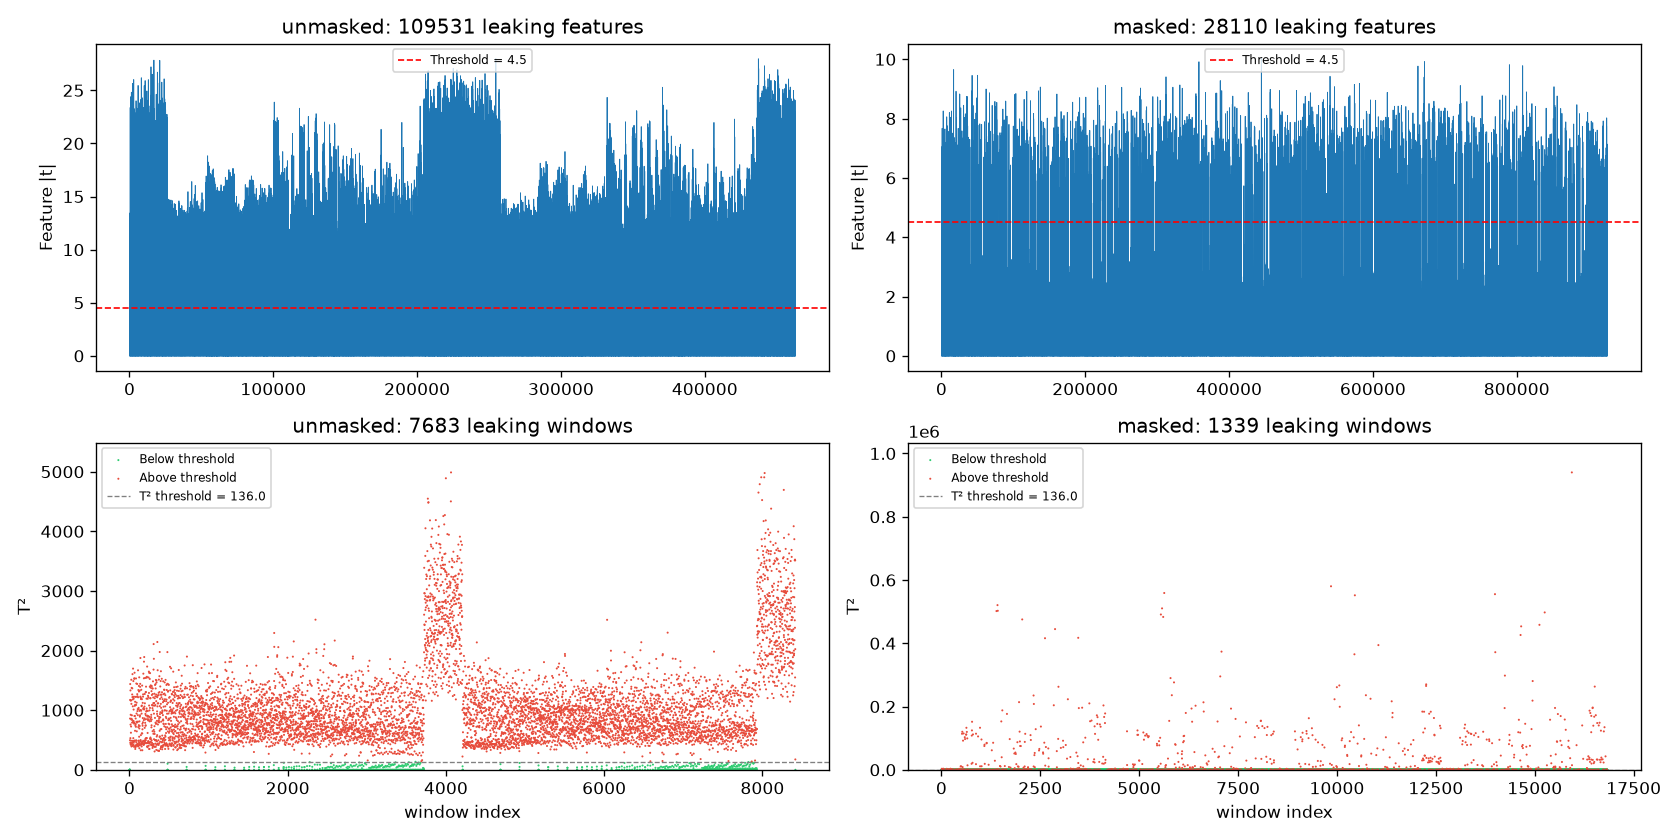
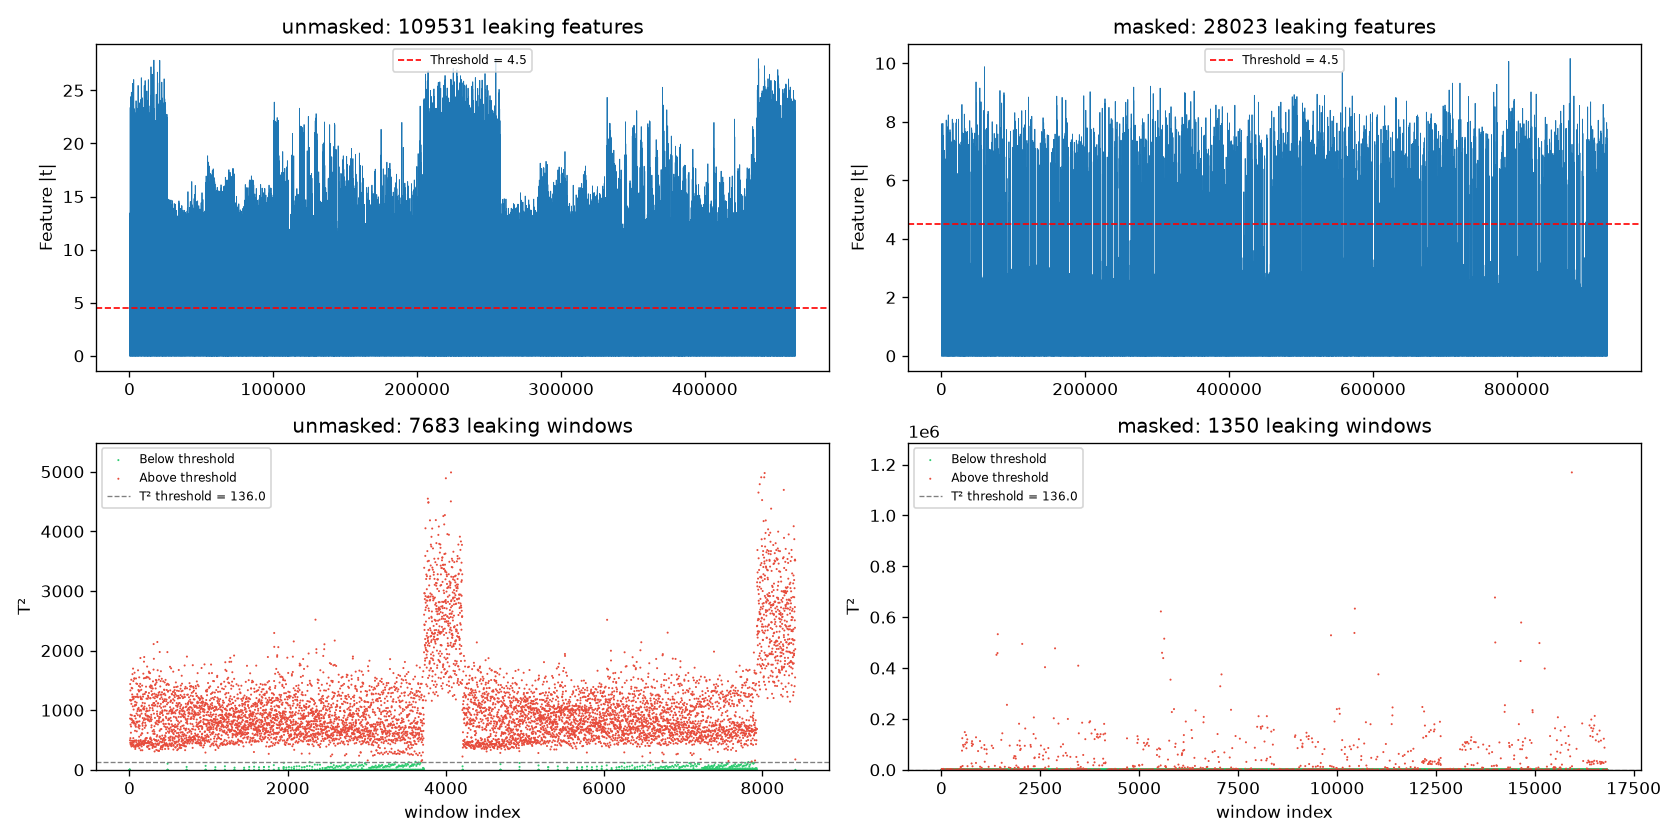
chore: resolve merge conflicts - keep flexible plot_welch_trace API with title_prefix, roi_length, show_raw_traceparams

diff --git a/trace_plot.py b/trace_plot.py
@@ -1,23 +1,23 @@
 #!/usr/bin/env python3
 """trace_plot.py -- Plot Welch Univariate TVLA trace data from ELMO.
 
-Called by tvla_analysis.py via:   trace_plot.plot_welch_trace(...)
+Called by tvla_analysis.py via:   trace_plot.plot_unmasked_welch_trace(...)
+                                  trace_plot.plot_welch_trace(...)
 
-Produces:  unmasked_trace.png and/or masked_trace.png (Welch t-stat line graphs
-           with ±4.5 threshold markers + sample power trace overlay)
+Produces:  unmasked_trace.png, masked_trace.png (Welch t-stat line graph +
+           sample power trace overlay).
 """
 
 
-def plot_welch_trace(label, t_stats, raw_trace, output_path=None, threshold=4.5):
-    """Save the Welch t-statistic as a line-graph PNG with a raw trace overlay.
+def plot_unmasked_welch_trace(t_stats, raw_trace, output_path, threshold=4.5):
+    """Save the Welch t-statistic as a line-graph PNG with a sample power trace overlay.
 
     Parameters
     ----------
-    label : str          - e.g. ``"Unmasked"`` or ``"Masked"`` (used in title)
-    t_stats : np.ndarray - per-point Welch t-statistic, shape (n_points,)
-    raw_trace : np.ndarray - one raw power trace from the ELMO output, shape (n_points,)
-    output_path : str or None - PNG output. If None, defaults to ``{label.lower()}_trace.png``
-    threshold : float   - |t| threshold (default 4.5)
+    t_stats : np.ndarray          - per-point Welch t-statistic, shape (n_points,)
+    raw_trace : np.ndarray        - one raw power trace from the ELMO output, shape (n_points,)
+    output_path : str             - PNG output file path
+    threshold : float             - |t| threshold (default 4.5)
     """
     import numpy as np
 
@@ -29,9 +29,6 @@ def plot_welch_trace(label, t_stats, raw_trace, output_path=None, threshold=4.5)
         print("matplotlib not available; skipping trace plot.")
         return
 
-    if output_path is None:
-        output_path = "{}_trace.png".format(label.lower())
-
     n_points = len(t_stats)
     positions = np.arange(n_points)
 
@@ -39,7 +36,7 @@ def plot_welch_trace(label, t_stats, raw_trace, output_path=None, threshold=4.5)
         2, 1, figsize=(14, 5), sharex=True,
         gridspec_kw={"height_ratios": [3, 1]}
     )
-    fig.suptitle("Welch {} Univariate TVLA".format(label), fontsize=13, fontweight="bold")
+    fig.suptitle("Welch Unmasked Univariate TVLA", fontsize=13, fontweight="bold")
 
     # --- Panel A: Welch t-statistic line graph ---
     ax_t.plot(positions, t_stats, color="#1f77b4", lw=0.8, zorder=5, label="Welch t")
@@ -65,4 +62,99 @@ def plot_welch_trace(label, t_stats, raw_trace, output_path=None, threshold=4.5)
     fig.tight_layout(rect=[0, 0.02, 1, 0.94])
     fig.savefig(output_path, dpi=200, bbox_inches="tight")
     plt.close(fig)
-    print("Saved trace plot to {}".format(output_path))
+    print(f"Saved trace plot to {output_path}")
+
+
+def plot_welch_trace(t_stats, raw_trace, output_path, threshold=4.5,
+                     title_prefix="Welch Masked Univariate TVLA",
+                     y_label="Welch t-statistic",
+                     show_raw_trace=True,
+                     roi_length=None,
+                     normalize_trace=False):
+    """Save the Welch t-statistic as a line-graph PNG with a sample power trace overlay.
+
+    Parameters
+    ----------
+    t_stats : np.ndarray          - per-point or per-feature Welch t-statistic, shape (n,)
+    raw_trace : np.ndarray        - one raw power trace from the ELMO output, shape (n,)
+    output_path : str             - PNG output file path
+    threshold : float             - |t| threshold (default 4.5)
+    title_prefix : str            - prefix for the plot title
+    y_label : str                 - label for the y-axis of the t-statistic panel
+    show_raw_trace : bool         - whether to show Panel B (raw power trace).
+                                    Set False for second-order plots (where raw
+                                    trace overlay doesn't apply).
+    roi_length : int or None      - number of leading points to display.  If
+                                    *None* (default) the full trace is shown.
+                                    Setting to ~5000 zooms into the region of
+                                    interest for readability.
+    normalize_trace : bool        - mean-centre and divide by std-dev so the
+                                    power y-axis stays in a readable range
+                                    (e.g. ±5 for the masked reference).
+    """
+    import numpy as np
+
+    try:
+        import matplotlib
+        matplotlib.use("Agg")
+        import matplotlib.pyplot as plt
+    except ImportError:
+        print("matplotlib not available; skipping trace plot.")
+        return
+
+    n_points = len(t_stats)
+
+    # ROI slice: limit x-axis to the first *roi_length* points so that the
+    # readable region is comparable to the masked reference plot.
+    end_idx = min(n_points, roi_length) if roi_length is not None else n_points
+
+    pos_display = np.arange(end_idx, dtype=np.int64)
+    t_display = t_stats[:end_idx]
+    if raw_trace is not None:
+        raw_display = raw_trace[:end_idx]
+        if normalize_trace:
+            raw_display = (raw_display - raw_display.mean()) / raw_display.std()
+    else:
+        raw_display = None
+
+    if show_raw_trace:
+        fig, (ax_t, ax_raw) = plt.subplots(
+            2, 1, figsize=(14, 5), sharex=True,
+            gridspec_kw={"height_ratios": [3, 1]}
+        )
+    else:
+        fig, ax_t = plt.subplots(1, 1, figsize=(14, 4.5))
+        ax_raw = None
+
+    fig.suptitle(title_prefix, fontsize=13, fontweight="bold")
+
+    # --- Panel A: Welch t-statistic line graph ---
+    # Use alpha transparency so overlapping points show density
+    ax_t.plot(pos_display, t_display, color="#1f77b4", lw=0.8, zorder=5, label="Welch t", alpha=0.9)
+
+    ax_t.axhline(0, color="silver", ls="-", lw=1, zorder=1)
+    ax_t.axhline(
+        threshold,
+        color="red", ls="--", lw=1.2,
+        label="|t| > {:.1f}".format(threshold),
+        zorder=2,
+    )
+    ax_t.axhline(-threshold, color="red", ls="--", lw=1.2, zorder=2)
+    ax_t.axhspan(-threshold, threshold, color="green", alpha=0.06, zorder=0)
+    ax_t.set_ylabel(y_label)
+    max_t = float(np.nanmax(np.abs(t_display)))
+    if np.isinf(max_t) or np.isnan(max_t):
+        max_t = threshold
+    y_max_display = max(threshold, max_t)
+    ax_t.set_ylim(-y_max_display * 1.12, y_max_display * 1.12)
+
+    # --- Panel B: Sample raw power trace ---
+    if show_raw_trace and raw_display is not None:
+        ax_raw.plot(pos_display, raw_display, color="gray", lw=0.3, zorder=1, alpha=0.4)
+        ax_raw.set_xlabel("Trace position")
+        ax_raw.set_ylabel("Power")
+
+    fig.tight_layout(rect=[0, 0.02, 1, 0.94])
+    fig.savefig(output_path, dpi=200, bbox_inches="tight")
+    plt.close(fig)
+    print(f"Saved trace plot to {output_path}")

diff --git a/tvla_analysis.py b/tvla_analysis.py
@@ -580,7 +580,8 @@ def parse_args():
     parser.add_argument("--joint-leak-fraction", type=float, default=0.1,
                         help="fraction of windows to inject when --inject-masked-joint-leak is set (default 0.1)")
     parser.add_argument("--plot-trace", action="store_true",
-                        help="plot Welch unmasked univariate TVLA trace to unmasked_trace.png")
+                        help="plot Welch univariate TVLA traces: unmasked_trace.png (unmasked), "
+                             "masked_trace.png (first-order masked), masked_second_order_trace.png (second-order masked)")
     return parser.parse_args()
 
 
@@ -629,13 +630,27 @@ def main():
             print("  ground truth: {} | univariate: {} | multivariate: {}"
                   .format(ground_truth, univariate, multivariate))
 
-            # Plot Welch univariate TVLA trace
-            if args.plot_trace:
+            # Plot Welch unmasked univariate TVLA trace
+            if args.plot_trace and label == "unmasked":
                 trace_plot.plot_welch_trace(
-                    label.capitalize(),
                     t_stats,
                     group0[0],
-                    os.path.join(REPO_ROOT, "{}_trace.png".format(label)))
+                    os.path.join(REPO_ROOT, "unmasked_trace.png"),
+                    title_prefix="Welch Unmasked Univariate TVLA",
+                    y_label="Welch t-statistic",
+                    show_raw_trace=True,
+                    roi_length=3000)
+
+            # Plot Welch masked univariate TVLA trace (first-order)
+            if args.plot_trace and label == "masked":
+                trace_plot.plot_welch_trace(
+                    t_stats,
+                    group0[0],
+                    os.path.join(REPO_ROOT, "masked_trace.png"),
+                    title_prefix="Welch Masked Univariate TVLA (First-Order)",
+                    y_label="Welch t-statistic",
+                    show_raw_trace=True,
+                    roi_length=3000)
 
         else:
             # -------- SECOND-ORDER PIPELINE --------
@@ -696,6 +711,28 @@ def main():
                 "f_crit": f_crit_val,
                 "order": 2,
             }
+
+            # Plot Welch unmasked second-order univariate TVLA trace
+            if args.plot_trace and label == "unmasked":
+                trace_plot.plot_welch_trace(
+                    t_stats,
+                    raw_trace=None,
+                    output_path=os.path.join(REPO_ROOT, "unmasked_second_order_trace.png"),
+                    title_prefix="Welch Unmasked Second-Order Univariate TVLA",
+                    y_label="Feature |t|",
+                    show_raw_trace=False,
+                    roi_length=15000)
+
+            # Plot Welch masked second-order univariate TVLA trace
+            if args.plot_trace and label == "masked":
+                trace_plot.plot_welch_trace(
+                    t_stats,
+                    raw_trace=None,
+                    output_path=os.path.join(REPO_ROOT, "masked_second_order_trace.png"),
+                    title_prefix="Welch Masked Second-Order Univariate TVLA",
+                    y_label="Feature |t|",
+                    show_raw_trace=False,
+                    roi_length=15000)
 
     print_table(results, args)
 
